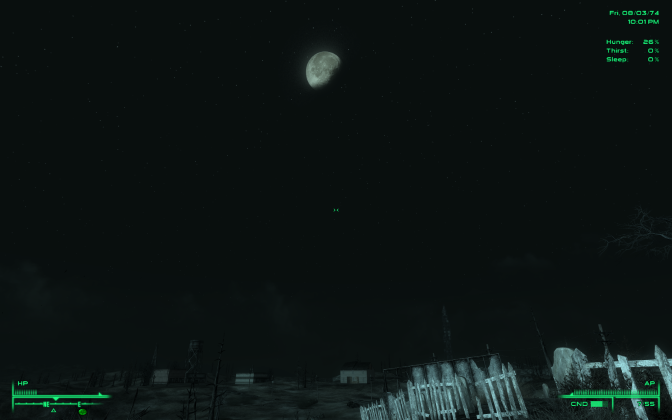
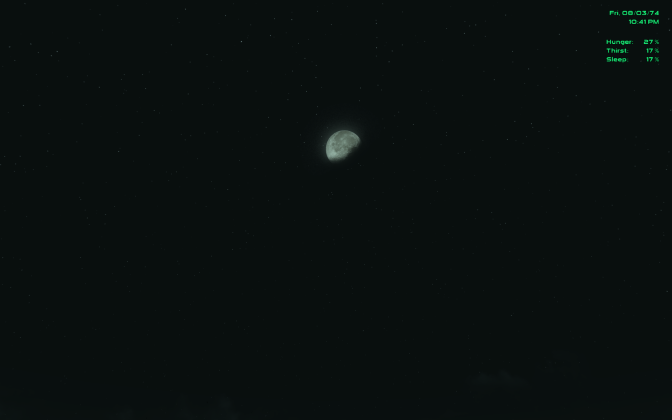
Finally!
I have started the final big chapter of the book. This big chapter (5) deals with graphic-enhancement mods.

The first chapter (5.1) changes the detail and brightness of the night sky with two simple mods.

diff --git a/Modding never changes.md b/Modding never changes.md
@@ -37,11 +37,13 @@
 		+ [4.4.1. _Hic sunt dracones_](#hicSuntDracones)
 		+ [4.4.2. Gear for a fallen brother](#gearFallenBrother)
 		+ [4.4.3. For the achievement junkie in you](#achievementJunkie)
-* [5. Resources](#resources)
-	* [5.1. Tools](#tools)
-	* [5.2. Guides](#guides)
-	* [5.3. Mods](#mods)
-	* [5.4. Videos](#videos)
+	- [5. Unveiling the real Wasteland](#unveilingRealWasteland)
+		+ [5.1. She walks in beauty, like the night of cloudless climes and starry skies](#sheWalksInBeauty)
+* [6. Resources](#resources)
+	* [6.1. Tools](#tools)
+	* [6.2. Guides](#guides)
+	* [6.3. Mods](#mods)
+	* [6.4. Videos](#videos)
 
 
 
@@ -1280,13 +1282,37 @@ Well, _there are_ achievements in _Fallout 3_, but they are not clearly visible 
 6. Launch the game and check your PipBoy _Data_ button, _Notes_ option. There should be a _Personal achievements log_ option to view your achievement list.
 
 
-## <a id="resources"></a>5. Resources
+
+
+## <a id="unveilingRealWasteland"></a>5. Unveiling the real Wasteland
+
+_Fallout 3_ is a terrific game, but it shows its age at first sight. Moreover, the greenish tint that pervades everything is, by far, one of the most questionable design decisions Bethesda made, at least graphics-wise.
+
+If you have followed this guide up to this point, you could play a greatly enjoyable game just with the mods I have recommended. But if you want to go the extra mile and change your visual perception of the Wasteland forever, please, be my guest and keep on reading.
+
+However, be advised: the mods in this section will push your machine capabilities to the limit.
+
+
+### <a id="sheWalksInBeauty"></a> 5.1. She walks in beauty, like the night of cloudless climes and starry skies
+
+One of the first things we can improve regarding the appearance of our world is the night sky. There are two mods ([_Enhanced Night Sky_](http://www.nexusmods.com/fallout3/mods/442/?) and [_krzymar HI-RES Moon_](http://www.nexusmods.com/fallout3/mods/538/?)) that will make you cry tears of joy everytime you look up to the Moon.
+
+That will also grant you a short lifespan, killed by any night-crawling creature which happens to find you an easy meal, ready to be disemboweled.
+
+1. Download _Enhanced Night Sky_ file with NMM.
+2. Download _krzymar_HI-RES_Moon-0_2_0-bright_ file with NMM (I prefer the brighter version, instead of the darker one).
+3. Activate them in the same order you downloaded them. There shouln't be any overwriting. There are not data files installed either, so no need to run LOOT.
+4. Launch the game and just compare.
+![Fallout 3 night before](Images/Fallout%203%20night%20before.png)
+![Fallout 3 night after](Images/Fallout%203%20night%20after.png)
+
+## <a id="resources"></a>6. Resources
 
 This is a comprehensive list of the resources used throughtout this guide.
 
 
 
-### <a id="tools"></a>5.1. Tools
+### <a id="tools"></a>6.1. Tools
 
 * [Nexus Mod Manager](http://www.nexusmods.com/games/mods/modmanager/?). This is the tool of choice when it comes to keep all your mods organized and up-to-date.
 * [LOOT](https://loot.github.io/). Installing mods on Bethesda games can be a pain in the ass, especially if you try to install a lot of possibly-colliding mods. This tool keeps the load order straight.
@@ -1294,7 +1320,7 @@ This is a comprehensive list of the resources used throughtout this guide.
 
 
 
-### <a id="guides"></a>5.2. Guides
+### <a id="guides"></a>6.2. Guides
 
 * [Guide to fix the game in order to run under modern versions of Windows](http://steamcommunity.com/sharedfiles/filedetails/?id=149946772).
 * [Why the game crashes if it runs in a box with multiple cores](http://www.sevenforums.com/gaming/20199-fallout-3-windows-7-w-quad-core.html).
@@ -1303,11 +1329,16 @@ This is a comprehensive list of the resources used throughtout this guide.
 
 
 
-### <a id="mods"></a>5.3. Mods
+### <a id="mods"></a>6.3. Mods
 
 This is the list of mods used throughout this guide, in ascending alphabetical order.
 
 * [_Adjustable HUD_](http://fallout3.nexusmods.com/mods/15886) or aHUD.
+* [_Advanced Recon Range Finder_](http://www.nexusmods.com/fallout3/mods/15744/?)
+* [_Advanced Recon Stealth Armor_](http://www.nexusmods.com/fallout3/mods/2654/?)
+* [_Advanced Recon Thermal Nightvision Patcher_](http://www.nexusmods.com/fallout3/mods/20806/?)
+* [_Advanced Recon Thermal Nightvision_](http://www.nexusmods.com/fallout3/mods/15653/?)
+* [_Advanced Recon Trap Detection_](http://www.nexusmods.com/fallout3/mods/15641/?)
 * [_Alton IL_](http://www.nexusmods.com/fallout3/mods/16949/?).
 * [_Arefu Expanded_](http://www.nexusmods.com/fallout3/mods/8976/?).
 * [_Better High Detail Map and Icons_](http://www.nexusmods.com/fallout3/mods/16898/?).
@@ -1334,18 +1365,19 @@ This is the list of mods used throughout this guide, in ascending alphabetical o
 * [_Marts Mutant Mod_](http://fallout3.nexusmods.com/mods/3211) or MMM.
 * [_Mothership Zeta Crew_](http://www.nexusmods.com/fallout3/mods/8747/?)
 * [_NMCS Texture Pack_](http://www.nexusmods.com/fallout3/mods/12056/?).
+* [_Personal Achievements Log_](http://www.nexusmods.com/fallout3/mods/11326/?)
 * [_PipBoy 3000 HD Retexture_](http://www.nexusmods.com/fallout3/mods/20373/?)
 * [_Project Reality_](http://www.nexusmods.com/fallout3/mods/17418/?).
 * [_Pure Water_](http://www.nexusmods.com/fallout3/mods/2599/?).
 * [_RH Ironsights_](http://fallout3.nexusmods.com/mods/6938).
+* [_SeraphTCs Personal Achievements Log FIX_](http://www.nexusmods.com/fallout3/mods/18678/?)
 * [_SmoothLight - Pip-Boy Light Enhancer_](http://www.nexusmods.com/fallout3/mods/18389/?)
 * [_Unofficial Fallout 3 Patch_](http://www.nexusmods.com/fallout3/mods/19122/?)
 * [_User Interface Organizer_](http://www.nexusmods.com/fallout3/mods/20867) or UIO.
 * [_Weapon Mod Kits_](http://fallout3.nexusmods.com/mods/3388) or WMK.
 
 
-
-### <a id="videos"></a>5.4. Videos
+### <a id="videos"></a>6.4. Videos
 
 These are the videos which served as spiritual inspiration author of this guide. That's me.
 
@@ -1368,3 +1400,4 @@ These are the videos which served as spiritual inspiration author of this guide.
 * [Modding Fallout 3 - Part 8 : Unified HUD Project](https://www.youtube.com/watch?v=oSaJVzGmQaI) (11:00).
 * [Modding Fallout 3 - Part 9 : FO3Edit](https://www.youtube.com/watch?v=uPK7R71zcwM) (39:13).
 * [Skyrim Mod Tool TES5EDIT : Cleaning your master files (REVISED)](https://www.youtube.com/watch?v=fw3g_N1jcZQ) (13:24).
+* [Fallout 3 mod : Advanced Recon Gear (Version 3.1)](https://www.youtube.com/watch?v=OsstmRso_Jw)

diff --git a/README.md b/README.md
@@ -6,6 +6,14 @@ Take a look at the file `Modding never changes.md`. That is the main guide file,
 
 ### Changelog
 
+**[07/08/2016] Section about night sky enhancement finished.**
+
+Finally!
+
+I have started the final big chapter of the book. This big chapter (5) deals with graphic-enhancement mods.
+
+The first chapter (5.1) changes the detail and brightness of the night sky with two simple mods.
+
 **[07/08/2016] Section about achievement list finished.**
 
 I have added a small section about a mod that creates a list of all your fulfilled achievements in the game, with retroactive effect.
